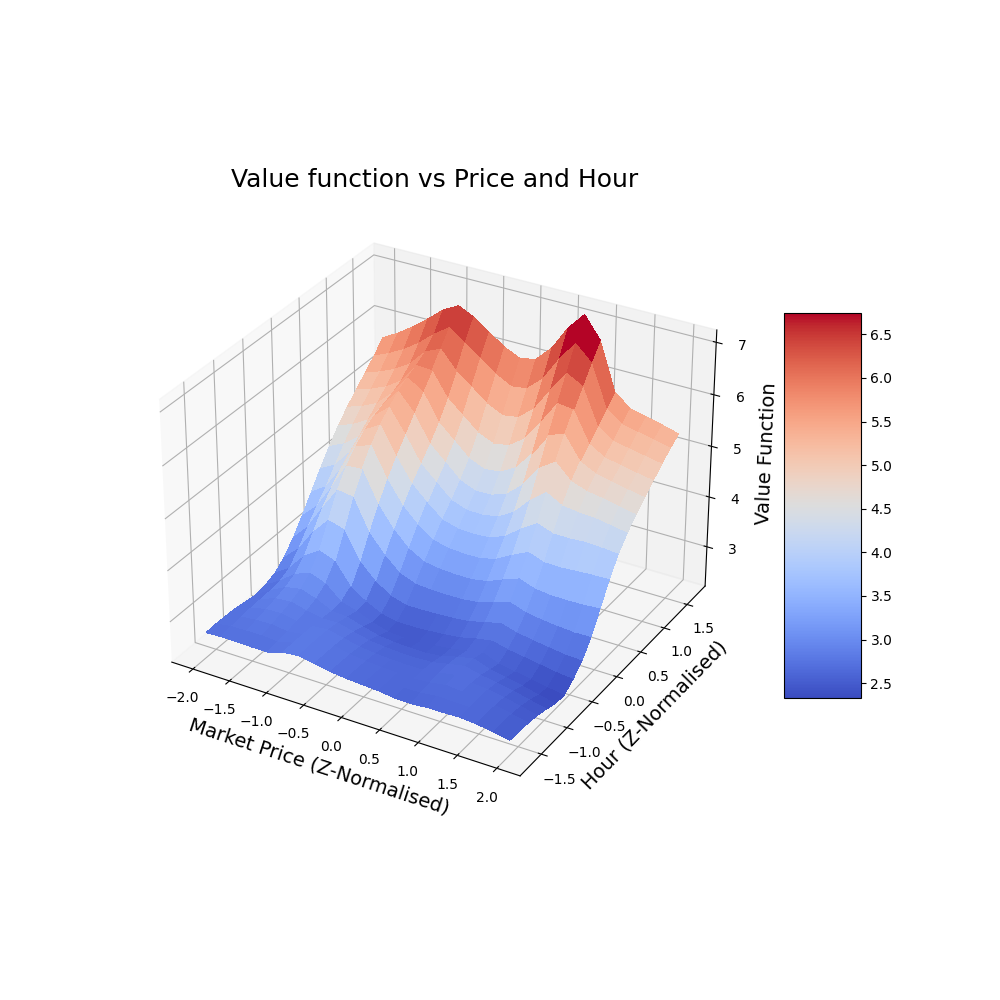
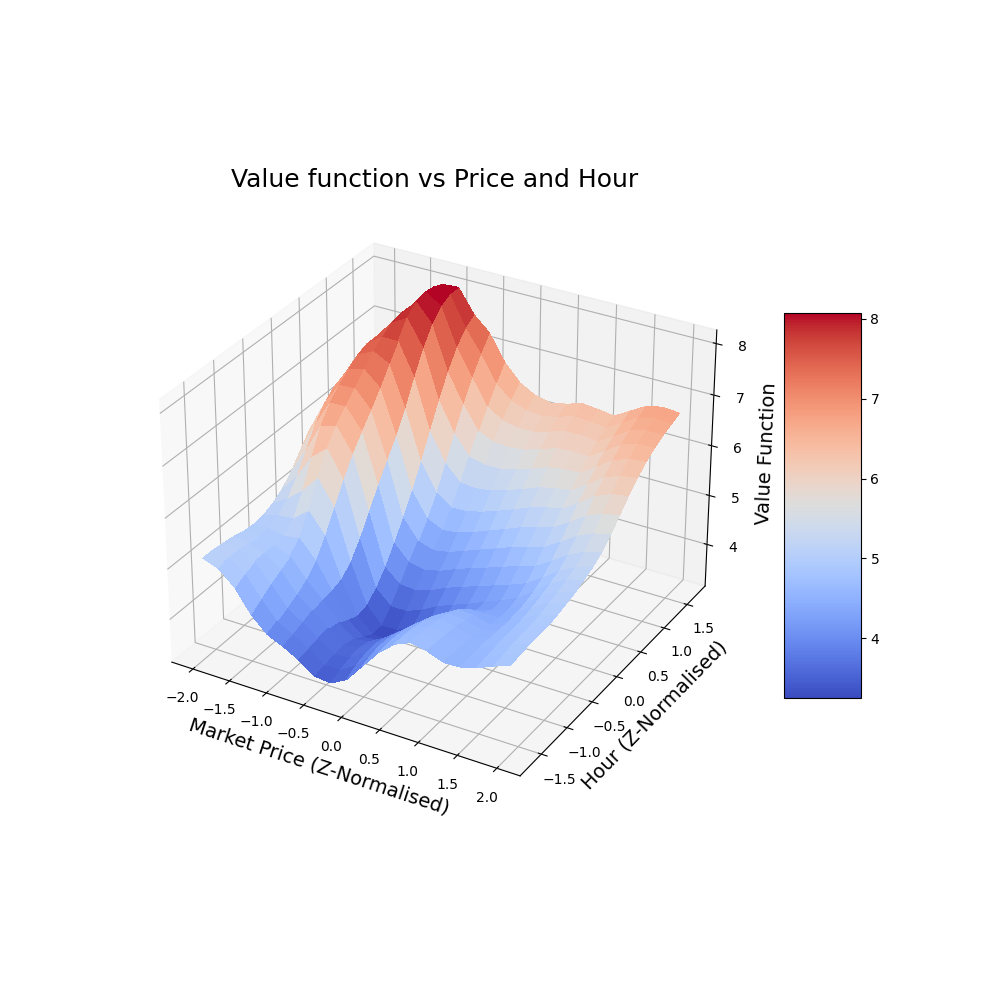
tabular learning working

diff --git a/tabular_qlearning.py b/tabular_qlearning.py
@@ -2,6 +2,7 @@ from Agent_Final import DamAgent
 import numpy as np
 import os
 from preprocess import Preprocess_Tabular
+import pandas as pd
 
 class QLearnerTabular():
     def __init__(self, train_data:np.ndarray, val_data:np.ndarray, model_path:os.PathLike, discount_rate:float=0.95) -> None:
@@ -196,12 +197,13 @@ class QLearnerTabular():
             state = state.astype(int)
             total_rewards.append(reward)
             total_actions.append(action_taken)
+            steps.append(cur_step)
+            cur_step += 1
         
-        with open(os.path.join(os.path.dirname(self.model_path),'experiment_results.txt'),'wt') as f:
-            f.write(f"Total reward on validation set : {np.sum(total_rewards)}\n")
-            f.write(str(total_rewards))
-            f.write(f"\nTotal action on validation set : {np.sum(total_actions)}\n")
-            f.write(str(total_actions))
+        
+        df_dict = {'reward':total_rewards,'action':total_actions,'step':steps}
+        df = pd.DataFrame(data=df_dict)
+        df.to_csv(os.path.join(os.path.dirname(self.model_path),'cummulative_rewards_tab.csv'),index=False)
         
         return np.sum(total_rewards)
 
@@ -228,7 +230,7 @@ if __name__ == "__main__":
     QAgent = QLearnerTabular(train_data=training_data, val_data=validation_data, model_path=def_model_path, discount_rate=0.95)
 
     lr = 0.10
-    simulations = 500
+    simulations = 10000
 
     QAgent.train(simulations=simulations,learning_rate=lr,early_stopping_value=500,early_stopping=True)
     print("Validation of Best Model running : ")

diff --git a/ddqn_plot_v_values.py b/ddqn_plot_v_values.py
@@ -5,8 +5,14 @@ from matplotlib import cm
 
 #function to convert plotting features to observation
 
-def make_observation(price:float,hour:int) -> np.ndarray:
-    obs = np.array(object=[price,hour,0.0,0.0])
+def make_observation(price:float,hour:int, month:int,vol_lvl:int) -> np.ndarray:
+    low_consts = [-1.6,-1]
+    high_consts = [1.6,1]
+    month_values = np.linspace(start=low_consts[0],stop=high_consts[0],num=12)
+    vol_values = np.linspace(start=low_consts[1],stop=high_consts[1],num=10)
+    month = month_values[month-1]
+    vol = vol_values[vol_lvl-1]
+    obs = np.array(object=[price,hour,month,vol])
     return obs
 
 if __name__ == "__main__":
@@ -19,6 +25,11 @@ if __name__ == "__main__":
 
     low = [-2.0,-1.66]
     high = [2.0,1.66]
+
+    #setting month and vol as consts
+    
+    month = 6
+    vol = 5
 
     #making bins for smoothing
     
@@ -33,7 +44,7 @@ if __name__ == "__main__":
 
     for i in range(len(X)):
         for j in range(len(Y)):
-            obs = make_observation(X[0][i], Y[j][0])
+            obs = make_observation(X[0][i], Y[j][0],month=month,vol_lvl=vol)
             Z[i][j] = val_agent.return_q_value(obs)
     fig = plt.figure(figsize =(10,10))
     ax = plt.axes(projection='3d')

diff --git a/ddqn_train.py b/ddqn_train.py
@@ -3,12 +3,12 @@ import numpy as np
 
 if __name__ == "__main__":
     
-    # n_simuls = 5
-    # print(f"Training for {n_simuls} simulations")
-    # agent = DDQNAgent(mode='train', seed=123, n_simuls=n_simuls)
-    # rewards_train, rewards_val = agent.train_agent()
-    # print(f'Max training reward : {np.max(rewards_train)}')
-    # print(f'Max validation reward : {np.max(rewards_val)}')
+    n_simuls = 5
+    print(f"Training for {n_simuls} simulations")
+    agent = DDQNAgent(mode='train', seed=123, n_simuls=n_simuls)
+    rewards_train, rewards_val = agent.train_agent()
+    print(f'Max training reward : {np.max(rewards_train)}')
+    print(f'Max validation reward : {np.max(rewards_val)}')
 
     print("-----------------VALIDATING-----------------")
     val_agent = DDQNAgent(mode='validate_custom', seed=123)
